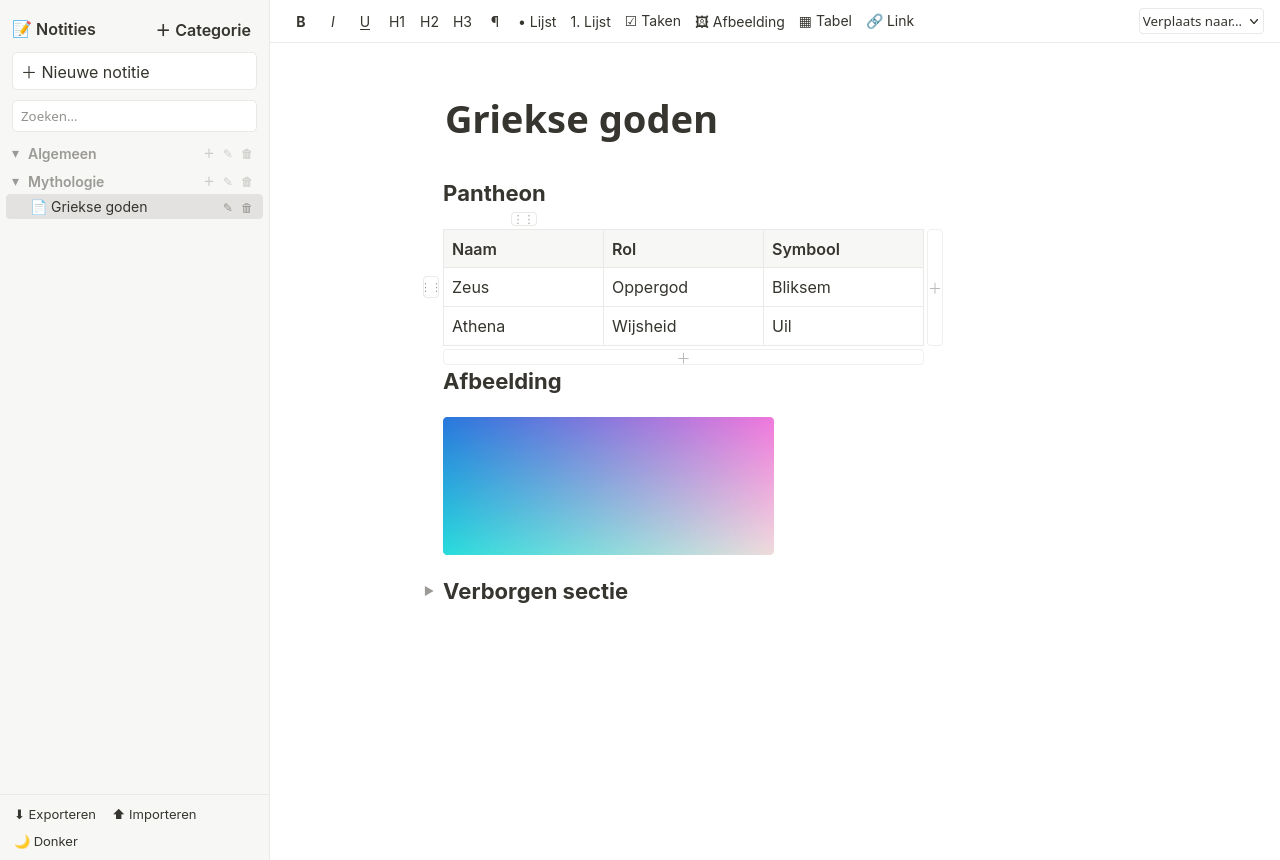
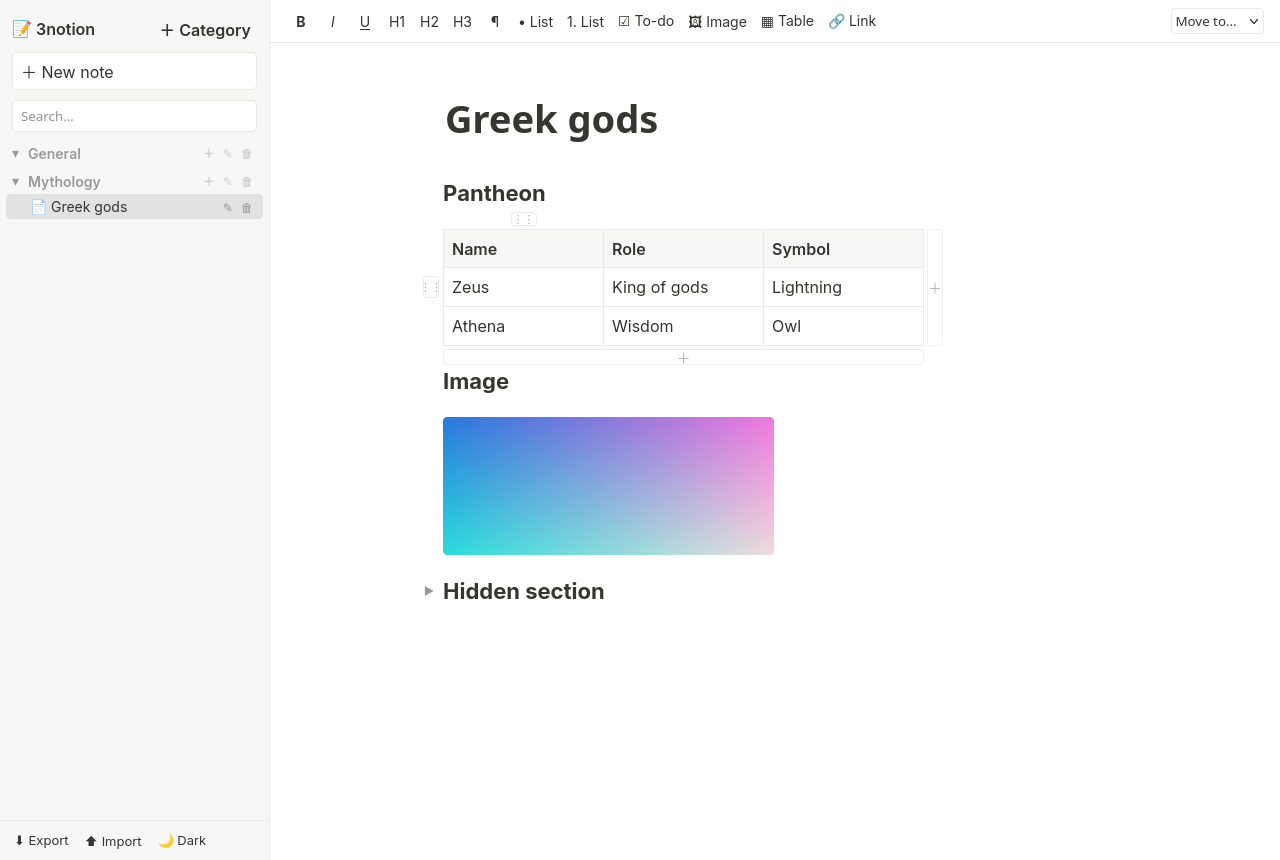
3notion: English UI, images, tables, reordering, undo/redo

diff --git a/3notion/index.html b/3notion/index.html
@@ -1,6 +1,6 @@
 <!DOCTYPE html>
-<html lang="nl"><head><meta charset="utf-8"><meta name="viewport" content="width=device-width,initial-scale=1">
-<title>Notities</title>
+<html lang="en"><head><meta charset="utf-8"><meta name="viewport" content="width=device-width,initial-scale=1">
+<title>3notion</title>
 <style>
 :root{--bg:#fff;--side:#f7f7f5;--text:#37352f;--muted:#9b9a97;--hover:#ebebea;--active:#e3e2e0;--border:#e9e9e7;--accent:#2383e2}
 body.dark{--bg:#191919;--side:#202020;--text:#e6e6e4;--muted:#7f7f7c;--hover:#2c2c2c;--active:#373737;--border:#2f2f2f;--accent:#529cca}
@@ -68,25 +68,25 @@ ul.todo li.done{text-decoration:line-through;color:var(--muted)}ul.todo li.done:
 #empty{color:var(--muted);text-align:center;margin-top:30vh}
 #status{font-size:12px;color:var(--muted);margin-left:8px}
 </style></head><body>
-<aside id="side"><header><span>📝 Notities</span><button id="addCat" title="Nieuwe categorie">＋ Categorie</button></header>
-<div id="banner" hidden></div><button id="newNote" title="Nieuwe notitie (Alt+N)">＋ Nieuwe notitie</button><input id="search" placeholder="Zoeken…"><div id="tree"></div>
-<footer><button id="exp">⬇ Exporteren</button><button id="imp">⬆ Importeren</button><button id="theme">🌙 Donker</button><input type="file" id="file" accept=".json,application/json" hidden></footer></aside>
+<aside id="side"><header><span>📝 3notion</span><button id="addCat" title="New category">＋ Category</button></header>
+<div id="banner" hidden></div><button id="newNote" title="New note (Alt+N)">＋ New note</button><input id="search" placeholder="Search…"><div id="tree"></div>
+<footer><button id="exp">⬇ Export</button><button id="imp">⬆ Import</button><button id="theme">🌙 Dark</button><input type="file" id="file" accept=".json,application/json" hidden></footer></aside>
 <main id="main"><div id="toolbar">
-<button data-c="bold" title="Vet (Ctrl+B)"><b>B</b></button><button data-c="italic" title="Cursief (Ctrl+I)"><i>I</i></button><button data-c="underline" title="Onderstrepen (Ctrl+U)"><u>U</u></button>
-<button data-b="H1" title="Kop 1 (Ctrl+1 of Ctrl+Shift+1)">H1</button><button data-b="H2" title="Kop 2 (Ctrl+2 of Ctrl+Shift+2)">H2</button><button data-b="H3" title="Kop 3 (Ctrl+3 of Ctrl+Shift+3)">H3</button><button data-b="P" title="Normale tekst (Ctrl+0 of Ctrl+Shift+0)">¶</button>
-<button data-c="insertUnorderedList" title="Opsommingslijst (Ctrl+L of Ctrl+Shift+8)">• Lijst</button><button data-c="insertOrderedList" title="Genummerde lijst (Ctrl+Shift+L of Ctrl+Shift+7)">1. Lijst</button>
-<button id="todoBtn" title="Takenlijst (Ctrl+Shift+9)">☑ Taken</button><button id="imgBtn" title="Afbeelding invoegen (of plak/sleep een afbeelding)">🖼 Afbeelding</button><input type="file" id="imgFile" accept="image/*" multiple hidden><button id="tblBtn" title="Tabel invoegen (3×3)">▦ Tabel</button><button id="linkBtn" title="Link invoegen (Ctrl+K)">🔗 Link</button><span id="status"></span>
-<select id="moveSel" title="Verplaats naar"></select></div>
-<div id="page"><div id="inner"><div id="empty">Selecteer of maak een notitie</div>
-<div id="noteView" hidden><input id="title" placeholder="Zonder titel"><div id="editor" contenteditable="true" data-ph="Begin met typen… (tip: # , ## , - , 1. , [] )"></div></div></div></div></main>
-<div id="imgbar" hidden><button data-w="25">25%</button><button data-w="50">50%</button><button data-w="75">75%</button><button data-w="100">100%</button><button data-del="1" title="Afbeelding verwijderen">🗑</button></div>
-<div id="tblui" hidden><div class="tui" id="tRowH" title="Rij-opties">⋮⋮</div><div class="tui" id="tColH" title="Kolom-opties">⋮⋮</div><div class="tui plus" id="tAddR" title="Rij toevoegen">＋</div><div class="tui plus" id="tAddC" title="Kolom toevoegen">＋</div><div id="tGrips"></div></div><div id="tmenu" hidden></div>
-<div id="modalBg" hidden><div id="modal"><div id="mMsg"></div><input id="mIn"><div class="btns"><button id="mCancel">Annuleren</button><button id="mOk" class="ok">OK</button></div></div></div>
+<button data-c="bold" title="Bold (Ctrl+B)"><b>B</b></button><button data-c="italic" title="Italic (Ctrl+I)"><i>I</i></button><button data-c="underline" title="Underline (Ctrl+U)"><u>U</u></button>
+<button data-b="H1" title="Heading 1 (Ctrl+1 or Ctrl+Shift+1)">H1</button><button data-b="H2" title="Heading 2 (Ctrl+2 or Ctrl+Shift+2)">H2</button><button data-b="H3" title="Heading 3 (Ctrl+3 or Ctrl+Shift+3)">H3</button><button data-b="P" title="Normal text (Ctrl+0 or Ctrl+Shift+0)">¶</button>
+<button data-c="insertUnorderedList" title="Bulleted list (Ctrl+L or Ctrl+Shift+8)">• List</button><button data-c="insertOrderedList" title="Numbered list (Ctrl+Shift+L or Ctrl+Shift+7)">1. List</button>
+<button id="todoBtn" title="To-do list (Ctrl+Shift+9)">☑ To-do</button><button id="imgBtn" title="Insert image (or paste/drag an image)">🖼 Image</button><input type="file" id="imgFile" accept="image/*" multiple hidden><button id="tblBtn" title="Insert table (3×3)">▦ Table</button><button id="linkBtn" title="Insert link (Ctrl+K)">🔗 Link</button><span id="status"></span>
+<select id="moveSel" title="Move to"></select></div>
+<div id="page"><div id="inner"><div id="empty">Select or create a note</div>
+<div id="noteView" hidden><input id="title" placeholder="Untitled"><div id="editor" contenteditable="true" data-ph="Start typing… (tip: # , ## , - , 1. , [] )"></div></div></div></div></main>
+<div id="imgbar" hidden><button data-w="25">25%</button><button data-w="50">50%</button><button data-w="75">75%</button><button data-w="100">100%</button><button data-del="1" title="Delete image">🗑</button></div>
+<div id="tblui" hidden><div class="tui" id="tRowH" title="Row options">⋮⋮</div><div class="tui" id="tColH" title="Column options">⋮⋮</div><div class="tui plus" id="tAddR" title="Add row">＋</div><div class="tui plus" id="tAddC" title="Add column">＋</div><div id="tGrips"></div></div><div id="tmenu" hidden></div>
+<div id="modalBg" hidden><div id="modal"><div id="mMsg"></div><input id="mIn"><div class="btns"><button id="mCancel">Cancel</button><button id="mOk" class="ok">OK</button></div></div></div>
 <script>
 const KEY='notities-app-v1';const $=s=>document.querySelector(s);
 const uid=()=>Date.now().toString(36)+Math.random().toString(36).slice(2,7);
 let mode='mem',idb=null,memMode=false;
-const MSG={mem:'⚠ Opslag geblokkeerd: notities worden niet bewaard na sluiten. Gebruik Exporteren of open het bestand rechtstreeks in je browser.',quota:'⚠ Opslag is vol: de laatste wijzigingen zijn niet bewaard. Exporteer een back-up en verwijder of verklein grote afbeeldingen.'};
+const MSG={mem:'⚠ Storage blocked: notes will not be kept after closing. Use Export, or open the file directly in your browser.',quota:'⚠ Storage is full: your latest changes were not saved. Export a backup and delete or shrink large images.'};
 function setBanner(k){const b=document.getElementById('banner');b.hidden=!k;if(k)b.textContent=MSG[k]}
 function lsGet(){try{return localStorage.getItem(KEY)}catch(e){return null}}
 function idbOpen(){return new Promise((res,rej)=>{let r;try{r=indexedDB.open('notities-app',1)}catch(e){return rej(e)}r.onupgradeneeded=()=>r.result.createObjectStore('kv');r.onsuccess=()=>res(r.result);r.onerror=()=>rej(r.error);r.onblocked=()=>rej(new Error('blocked'))})}
@@ -101,8 +101,8 @@ function flush(){if(!dirty)return;dirty=false;const v=JSON.stringify(D);
  if(mode==='idb')idbReq('put',v,KEY).then(()=>{if(!memMode)setBanner(null)}).catch(e=>{setBanner('quota')});
  else if(mode==='ls'){try{localStorage.setItem(KEY,v);setBanner(null)}catch(e){setBanner(/quota/i.test(e.name+e.message)?'quota':'mem')}}}
 function lsSet(){dirty=true;flush()}
-let D={cats:[{id:uid(),name:'Algemeen',collapsed:false}],notes:[],current:null,dark:false};
-function save(){dirty=true;clearTimeout(save.p);save.p=setTimeout(flush,300);$('#status').textContent='Opgeslagen';clearTimeout(save.t);save.t=setTimeout(()=>$('#status').textContent='',1200)}
+let D={cats:[{id:uid(),name:'General',collapsed:false}],notes:[],current:null,dark:false};
+function save(){dirty=true;clearTimeout(save.p);save.p=setTimeout(flush,300);$('#status').textContent='Saved';clearTimeout(save.t);save.t=setTimeout(()=>$('#status').textContent='',1200)}
 const cur=()=>D.notes.find(n=>n.id===D.current);
 function ask(msg,o={}){return new Promise(res=>{const bg=$('#modalBg'),inp=$('#mIn'),ok=$('#mOk');$('#mMsg').textContent=msg;inp.hidden=!o.input;inp.value=o.def||'';ok.textContent=o.ok||'OK';ok.classList.toggle('danger',!!o.danger);bg.hidden=false;(o.input?inp:ok).focus();
  const done=v=>{bg.hidden=true;ok.onclick=$('#mCancel').onclick=inp.onkeydown=bg.onkeydown=null;res(v)};
@@ -121,40 +121,40 @@ function restoreSide(sn){const n0=cur();if(n0&&document.activeElement===ed){n0.h
  D.cats=sn.cats.map(c=>({...c}));D.notes=sn.notes.map(x=>{x.ref.cat=x.cat;x.ref.title=x.title;return x.ref});
  D.current=D.notes.some(n=>n.id===sn.current)?sn.current:(cur()?D.current:null);if(document.activeElement===ed)ed.blur();save();render();open()}
 function toast(msg){let t=document.getElementById('toast');if(!t){t=document.createElement('div');t.id='toast';document.body.appendChild(t)}t.textContent=msg;t.className='show';clearTimeout(toast.t);toast.t=setTimeout(()=>t.className='',2200)}
-function sideUndo(){const a=SH.past.pop();if(!a){toast('Niets om ongedaan te maken');return}SH.future.push({snap:snapSide(),label:a.label});restoreSide(a.snap);toast('Ongedaan gemaakt: '+a.label)}
-function sideRedo(){const a=SH.future.pop();if(!a){toast('Niets om opnieuw te doen');return}SH.past.push({snap:snapSide(),label:a.label});restoreSide(a.snap);toast('Opnieuw: '+a.label)}
+function sideUndo(){const a=SH.past.pop();if(!a){toast('Nothing to undo');return}SH.future.push({snap:snapSide(),label:a.label});restoreSide(a.snap);toast('Undone: '+a.label)}
+function sideRedo(){const a=SH.future.pop();if(!a){toast('Nothing to redo');return}SH.past.push({snap:snapSide(),label:a.label});restoreSide(a.snap);toast('Redone: '+a.label)}
 let drag=null;function clearDrop(){document.querySelectorAll('.dBefore,.dAfter,.drop').forEach(x=>x.classList.remove('dBefore','dAfter','drop'))}
 let pend=null,editingNote=null;function render(){const q=$('#search').value.toLowerCase().trim(),t=$('#tree');t.innerHTML='';
  D.cats.forEach(c=>{const ns=D.notes.filter(n=>n.cat===c.id&&(!q||(n.title+' '+n.html.replace(/<[^>]+>/g,' ')).toLowerCase().includes(q)));
   if(q&&!ns.length)return;const el=document.createElement('div');el.className='cat'+(c.collapsed&&!q?' collapsed':'');
-  el.innerHTML=`<div class="cathead"><span class="arrow">▾</span><span class="nm">${esc(c.name)}</span><span class="acts"><button data-a="addn" title="Nieuwe notitie">＋</button><button data-a="ren" title="Hernoemen">✎</button><button data-a="del" title="Verwijderen">🗑</button></span></div><div class="notes"></div>`;
+  el.innerHTML=`<div class="cathead"><span class="arrow">▾</span><span class="nm">${esc(c.name)}</span><span class="acts"><button data-a="addn" title="New note">＋</button><button data-a="ren" title="Rename">✎</button><button data-a="del" title="Delete">🗑</button></span></div><div class="notes"></div>`;
   const h=el.firstChild;h.querySelector('.arrow').onclick=h.querySelector('.nm').onclick=()=>{c.collapsed=!c.collapsed;save();render()};
   h.querySelector('[data-a=addn]').onclick=()=>newNote(c.id);
-  const renC=()=>inline(h.querySelector('.nm'),c.name,v=>{if(v&&v!==c.name){if(freshCat!==c.id)sideAct('categorie hernoemd');c.name=v}freshCat=null;save();render()});h.querySelector('[data-a=ren]').onclick=renC;h.querySelector('.nm').ondblclick=renC;if(editing===c.id)pend=renC;
-  h.querySelector('[data-a=del]').onclick=()=>{const k=D.notes.filter(n=>n.cat===c.id).length;ask(`Categorie "${c.name}" verwijderen${k?` inclusief ${k} notitie(s)`:''}?`,{ok:'Verwijderen',danger:true}).then(y=>{if(y){sideAct('categorie verwijderd');D.notes=D.notes.filter(n=>n.cat!==c.id);D.cats=D.cats.filter(x=>x!==c);if(!cur())D.current=null;save();render();open()}})};
+  const renC=()=>inline(h.querySelector('.nm'),c.name,v=>{if(v&&v!==c.name){if(freshCat!==c.id)sideAct('category renamed');c.name=v}freshCat=null;save();render()});h.querySelector('[data-a=ren]').onclick=renC;h.querySelector('.nm').ondblclick=renC;if(editing===c.id)pend=renC;
+  h.querySelector('[data-a=del]').onclick=()=>{const k=D.notes.filter(n=>n.cat===c.id).length;ask(`Delete category "${c.name}"${k?` including ${k} note(s)`:''}?`,{ok:'Delete',danger:true}).then(y=>{if(y){sideAct('category deleted');D.notes=D.notes.filter(n=>n.cat!==c.id);D.cats=D.cats.filter(x=>x!==c);if(!cur())D.current=null;save();render();open()}})};
   h.draggable=!q;h.ondragstart=e=>{if(e.target.closest('input')){e.preventDefault();return}drag={t:'cat',id:c.id};e.dataTransfer.effectAllowed='move';e.dataTransfer.setData('text/plain','cat:'+c.id)};h.ondragend=clearDrop;
   h.ondragover=e=>{if(!drag)return;e.preventDefault();clearDrop();if(drag.t==='note')h.classList.add('drop');else if(drag.id!==c.id){const rc=h.getBoundingClientRect();el.classList.add(e.clientY<rc.top+rc.height/2?'dBefore':'dAfter')}};
   h.ondragleave=()=>{h.classList.remove('drop');el.classList.remove('dBefore','dAfter')};
   h.ondrop=e=>{e.preventDefault();const d=drag;const after=el.classList.contains('dAfter');clearDrop();drag=null;if(!d)return;
-   if(d.t==='note'){const n=D.notes.find(x=>x.id===d.id);if(n){sideAct('notitie verplaatst');D.notes.splice(D.notes.indexOf(n),1);n.cat=c.id;D.notes.push(n);c.collapsed=false}}
-   else if(d.id!==c.id){sideAct('categorie verplaatst');const mv=D.cats.find(x=>x.id===d.id);D.cats.splice(D.cats.indexOf(mv),1);D.cats.splice(D.cats.indexOf(c)+(after?1:0),0,mv)}save();render();open()};
+   if(d.t==='note'){const n=D.notes.find(x=>x.id===d.id);if(n){sideAct('note moved');D.notes.splice(D.notes.indexOf(n),1);n.cat=c.id;D.notes.push(n);c.collapsed=false}}
+   else if(d.id!==c.id){sideAct('category moved');const mv=D.cats.find(x=>x.id===d.id);D.cats.splice(D.cats.indexOf(mv),1);D.cats.splice(D.cats.indexOf(c)+(after?1:0),0,mv)}save();render();open()};
   ns.forEach(n=>{const ne=document.createElement('div');ne.className='note'+(n.id===D.current?' active':'');ne.draggable=true;
-   ne.innerHTML=`<span class="nm">📄 ${esc(n.title||'Zonder titel')}</span><span class="acts"><button data-a="ren" title="Hernoemen">✎</button><button data-a="del" title="Verwijderen">🗑</button></span>`;
+   ne.innerHTML=`<span class="nm">📄 ${esc(n.title||'Untitled')}</span><span class="acts"><button data-a="ren" title="Rename">✎</button><button data-a="del" title="Delete">🗑</button></span>`;
    ne.onclick=e=>{if(e.target.closest('button'))return;D.current=n.id;save();render();open()};
    ne.ondragstart=e=>{e.stopPropagation();drag={t:'note',id:n.id};e.dataTransfer.effectAllowed='move';e.dataTransfer.setData('text/plain','note:'+n.id)};ne.ondragend=clearDrop;
    ne.ondragover=e=>{if(!drag||drag.t!=='note'||drag.id===n.id)return;e.preventDefault();e.stopPropagation();clearDrop();const rc=ne.getBoundingClientRect();ne.classList.add(e.clientY<rc.top+rc.height/2?'dBefore':'dAfter')};
    ne.ondragleave=()=>ne.classList.remove('dBefore','dAfter');
    ne.ondrop=e=>{e.preventDefault();e.stopPropagation();const after=ne.classList.contains('dAfter');clearDrop();const d=drag;drag=null;if(!d||d.t!=='note'||d.id===n.id)return;
-    const mv=D.notes.find(x=>x.id===d.id);if(!mv)return;sideAct('notitie verplaatst');D.notes.splice(D.notes.indexOf(mv),1);mv.cat=n.cat;D.notes.splice(D.notes.indexOf(n)+(after?1:0),0,mv);save();render();open()};
-   ne.querySelector('[data-a=ren]').onclick=()=>inline(ne.querySelector('.nm'),n.title,v=>{if(v!==null&&v!==n.title){sideAct('notitie hernoemd');n.title=v}save();render();open()});if(editingNote===n.id){editingNote=null;pend=()=>inline(ne.querySelector('.nm'),n.title,v=>{if(v)n.title=v;n.updated=Date.now();save();render();open();ed.focus()})}
-   ne.querySelector('[data-a=del]').onclick=()=>{ask(`Notitie "${n.title||'Zonder titel'}" verwijderen?`,{ok:'Verwijderen',danger:true}).then(y=>{if(y){sideAct('notitie verwijderd');D.notes=D.notes.filter(x=>x!==n);if(D.current===n.id)D.current=null;save();render();open()}})};
+    const mv=D.notes.find(x=>x.id===d.id);if(!mv)return;sideAct('note moved');D.notes.splice(D.notes.indexOf(mv),1);mv.cat=n.cat;D.notes.splice(D.notes.indexOf(n)+(after?1:0),0,mv);save();render();open()};
+   ne.querySelector('[data-a=ren]').onclick=()=>inline(ne.querySelector('.nm'),n.title,v=>{if(v!==null&&v!==n.title){sideAct('note renamed');n.title=v}save();render();open()});if(editingNote===n.id){editingNote=null;pend=()=>inline(ne.querySelector('.nm'),n.title,v=>{if(v)n.title=v;n.updated=Date.now();save();render();open();ed.focus()})}
+   ne.querySelector('[data-a=del]').onclick=()=>{ask(`Delete note "${n.title||'Untitled'}"?`,{ok:'Delete',danger:true}).then(y=>{if(y){sideAct('note deleted');D.notes=D.notes.filter(x=>x!==n);if(D.current===n.id)D.current=null;save();render();open()}})};
    el.querySelector('.notes').appendChild(ne)});t.appendChild(el)});if(pend){const f=pend;pend=null;f()}
- const s=$('#moveSel');s.innerHTML='<option value="">Verplaats naar…</option>'+D.cats.map(c=>`<option value="${c.id}">${esc(c.name)}</option>`).join('');}
+ const s=$('#moveSel');s.innerHTML='<option value="">Move to…</option>'+D.cats.map(c=>`<option value="${c.id}">${esc(c.name)}</option>`).join('');}
 function open(){const n=cur();$('#empty').hidden=!!n;$('#noteView').hidden=!n;$('#toolbar').style.visibility=n?'visible':'hidden';
  if(n){if($('#title').value!==n.title||document.activeElement!==$('#title'))$('#title').value=n.title;if(document.activeElement!==$('#editor')){$('#editor').innerHTML=n.html;ed.querySelectorAll('table').forEach(normTable);recompute();hideTbl()}}}
-function newNote(cid){if(!cid||!D.cats.some(c=>c.id===cid)){if(!D.cats.length)D.cats.push({id:uid(),name:'Algemeen',collapsed:false});cid=(cur()&&cur().cat)||D.cats[0].id}
- const n={id:uid(),cat:cid,title:'Nieuwe notitie',html:'',updated:Date.now()};sideAct('notitie aangemaakt');D.notes.push(n);D.current=n.id;D.cats.find(c=>c.id===cid).collapsed=false;editingNote=n.id;save();open();render()}
-$('#addCat').onclick=()=>{sideAct('categorie aangemaakt');const c={id:uid(),name:'Nieuwe categorie',collapsed:false};freshCat=c.id;D.cats.push(c);editing=c.id;$('#search').value='';save();render()};
+function newNote(cid){if(!cid||!D.cats.some(c=>c.id===cid)){if(!D.cats.length)D.cats.push({id:uid(),name:'General',collapsed:false});cid=(cur()&&cur().cat)||D.cats[0].id}
+ const n={id:uid(),cat:cid,title:'New note',html:'',updated:Date.now()};sideAct('note created');D.notes.push(n);D.current=n.id;D.cats.find(c=>c.id===cid).collapsed=false;editingNote=n.id;save();open();render()}
+$('#addCat').onclick=()=>{sideAct('category created');const c={id:uid(),name:'New category',collapsed:false};freshCat=c.id;D.cats.push(c);editing=c.id;$('#search').value='';save();render()};
 $('#newNote').onclick=()=>{$('#search').value='';newNote(cur()&&cur().cat)};
 $('#title').oninput=e=>{const n=cur();if(n){n.title=e.target.value;n.updated=Date.now();save();render()}};
 $('#title').onkeydown=e=>{if(e.key==='Enter'){e.preventDefault();$('#editor').focus()}};
@@ -165,7 +165,7 @@ function setBlock(t){const sl=getSelection();const b=sl.rangeCount&&ed.contains(
 document.querySelectorAll('#toolbar [data-b]').forEach(b=>b.onmousedown=e=>{e.preventDefault();setBlock(b.dataset.b)});
 function todo(){document.execCommand('insertUnorderedList');const s=getSelection();let n=s.anchorNode;while(n&&n!==ed&&n.nodeName!=='UL')n=n.parentNode;if(n&&n.nodeName==='UL')n.classList.add('todo');ed.oninput()}
 $('#todoBtn').onmousedown=e=>{e.preventDefault();todo();updateActive()};
-$('#linkBtn').onmousedown=e=>{e.preventDefault();doLink()};function doLink(){const sel=getSelection(),rg=sel.rangeCount?sel.getRangeAt(0).cloneRange():null;ask('Link-adres (URL):',{input:true,def:'https://'}).then(u=>{ed.focus();if(rg){sel.removeAllRanges();sel.addRange(rg)}if(u&&u!=='https://'){if(rg&&rg.collapsed)document.execCommand('insertHTML',false,'<a href="'+esc(u)+'">'+esc(u)+'</a>');else document.execCommand('createLink',false,u)}ed.oninput();updateActive()})}
+$('#linkBtn').onmousedown=e=>{e.preventDefault();doLink()};function doLink(){const sel=getSelection(),rg=sel.rangeCount?sel.getRangeAt(0).cloneRange():null;ask('Link address (URL):',{input:true,def:'https://'}).then(u=>{ed.focus();if(rg){sel.removeAllRanges();sel.addRange(rg)}if(u&&u!=='https://'){if(rg&&rg.collapsed)document.execCommand('insertHTML',false,'<a href="'+esc(u)+'">'+esc(u)+'</a>');else document.execCommand('createLink',false,u)}ed.oninput();updateActive()})}
 ed.onclick=e=>{const a=e.target.closest('a');if(a&&(e.ctrlKey||e.metaKey)){window.open(a.href,'_blank');return}
  const li=e.target.closest('ul.todo li');if(li&&e.offsetX<22){li.classList.toggle('done');ed.oninput()}};
 ed.onkeydown=e=>{if(e.key!==' ')return;const s=getSelection();if(!s.rangeCount)return;const nd=s.anchorNode;if(nd.nodeType!==3)return;
@@ -173,13 +173,13 @@ ed.onkeydown=e=>{if(e.key!==' ')return;const s=getSelection();if(!s.rangeCount)r
  if(!m)return;let blk=nd.parentNode;if(blk!==ed&&!/^(DIV|P)$/.test(blk.nodeName))return;if(nd.previousSibling)return;
  e.preventDefault();const r=document.createRange();r.setStart(nd,0);r.setEnd(nd,s.anchorOffset);s.removeAllRanges();s.addRange(r);document.execCommand('delete');
  if(m[0]==='todo')todo();else document.execCommand(m[0],false,m[1]);ed.oninput()};
-$('#moveSel').onchange=e=>{const n=cur();if(n&&e.target.value&&e.target.value!==n.cat){sideAct('notitie verplaatst');n.cat=e.target.value;save();render()}e.target.value=''};
+$('#moveSel').onchange=e=>{const n=cur();if(n&&e.target.value&&e.target.value!==n.cat){sideAct('note moved');n.cat=e.target.value;save();render()}e.target.value=''};
 $('#search').oninput=render;
-$('#exp').onclick=()=>{const b=new Blob([JSON.stringify(D,null,2)],{type:'application/json'});const a=document.createElement('a');a.href=URL.createObjectURL(b);a.download='notities-backup-'+new Date().toISOString().slice(0,10)+'.json';a.click()};
+$('#exp').onclick=()=>{const b=new Blob([JSON.stringify(D,null,2)],{type:'application/json'});const a=document.createElement('a');a.href=URL.createObjectURL(b);a.download='3notion-backup-'+new Date().toISOString().slice(0,10)+'.json';a.click()};
 $('#imp').onclick=()=>$('#file').click();
 $('#file').onchange=e=>{const f=e.target.files[0];if(!f)return;f.text().then(t=>{try{const d=JSON.parse(t);if(!Array.isArray(d.cats)||!Array.isArray(d.notes))throw 0;
- ask('Huidige gegevens vervangen door de import?',{ok:'Vervangen',danger:true}).then(y=>{if(y){D=d;save();flush();applyTheme();render();open()}})}catch(_){ask('Ongeldig back-upbestand.')}e.target.value=''})};
-function applyTheme(){document.body.classList.toggle('dark',!!D.dark);$('#theme').textContent=D.dark?'☀ Licht':'🌙 Donker'}
+ ask('Replace current data with the import?',{ok:'Replace',danger:true}).then(y=>{if(y){D=d;save();flush();applyTheme();render();open()}})}catch(_){ask('Invalid backup file.')}e.target.value=''})};
+function applyTheme(){document.body.classList.toggle('dark',!!D.dark);$('#theme').textContent=D.dark?'☀ Light':'🌙 Dark'}
 $('#theme').onclick=()=>{D.dark=!D.dark;save();applyTheme()};
 window.addEventListener('keydown',e=>{if(e.code==='KeyN'&&((e.altKey&&!e.ctrlKey&&!e.metaKey&&!e.shiftKey)||((e.ctrlKey||e.metaKey)&&e.altKey))){e.stopPropagation();e.preventDefault();newNote(cur()?.cat)}},true);
 document.execCommand('defaultParagraphSeparator',false,'p');
@@ -326,12 +326,12 @@ function tblOp(op,ctx){const {t}=ctx;let r=ctx.r,c=ctx.c;const res=/^col/.test(o
  if(res==='gone'){hideTbl();recompute();ed.oninput();return}
  if(res[0]!=null)r=res[0];if(res[1]!=null)c=res[1];normTable(t);r=Math.min(r,t.rows.length-1);c=Math.min(c,t.rows[0].cells.length-1);
  ed.focus();caretTo(cellAt(t,r,c),true);hoverCell=null;$('#tGrips').dataset.k='';recompute();ed.oninput();showTbl(true)}
-const MENU=[['rowIns:0','Rij boven invoegen'],['rowIns:1','Rij onder invoegen'],['colIns:0','Kolom links invoegen'],['colIns:1','Kolom rechts invoegen'],'-',
- ['rowDup','Rij dupliceren'],['colDup','Kolom dupliceren'],['rowClr','Rij leegmaken'],['colClr','Kolom leegmaken'],'-',
- ['hRow','Kopregel aan/uit'],['hCol','Kopkolom aan/uit'],'-',['rowUp','Rij omhoog'],['rowDown','Rij omlaag'],['colL','Kolom naar links'],['colR','Kolom naar rechts'],'-',
- ['rowDel','Rij verwijderen','danger'],['colDel','Kolom verwijderen','danger'],['tblDel','Tabel verwijderen','danger']];
+const MENU=[['rowIns:0','Insert row above'],['rowIns:1','Insert row below'],['colIns:0','Insert column left'],['colIns:1','Insert column right'],'-',
+ ['rowDup','Duplicate row'],['colDup','Duplicate column'],['rowClr','Clear row'],['colClr','Clear column'],'-',
+ ['hRow','Toggle header row'],['hCol','Toggle header column'],'-',['rowUp','Move row up'],['rowDown','Move row down'],['colL','Move column left'],['colR','Move column right'],'-',
+ ['rowDel','Delete row','danger'],['colDel','Delete column','danger'],['tblDel','Delete table','danger']];
 function openTMenu(btn,kind){if(!TA)return;const ctx={t:TA.t,r:TA.r,c:TA.c},m=$('#tmenu');
- m.innerHTML=`<div style="font-size:11px;color:var(--muted);padding:3px 10px">${kind==='row'?'Rij '+(ctx.r+1):'Kolom '+(ctx.c+1)}</div>`+MENU.map(x=>x==='-'?'<hr>':`<button data-op="${x[0]}" class="${x[2]||''}">${x[1]}</button>`).join('');
+ m.innerHTML=`<div style="font-size:11px;color:var(--muted);padding:3px 10px">${kind==='row'?'Row '+(ctx.r+1):'Column '+(ctx.c+1)}</div>`+MENU.map(x=>x==='-'?'<hr>':`<button data-op="${x[0]}" class="${x[2]||''}">${x[1]}</button>`).join('');
  cellAt(ctx.t,ctx.r,ctx.c);ed.querySelectorAll('.tsel').forEach(x=>x.classList.remove('tsel'));
  (kind==='row'?[...ctx.t.rows[ctx.r].cells]:[...ctx.t.rows].map(rw=>rw.cells[ctx.c])).forEach(x=>x.classList.add('tsel'));
  m.hidden=false;const b=btn.getBoundingClientRect();m.style.left=Math.min(innerWidth-230,b.right+4)+'px';m.style.top=Math.max(4,Math.min(innerHeight-m.offsetHeight-4,b.top))+'px';
